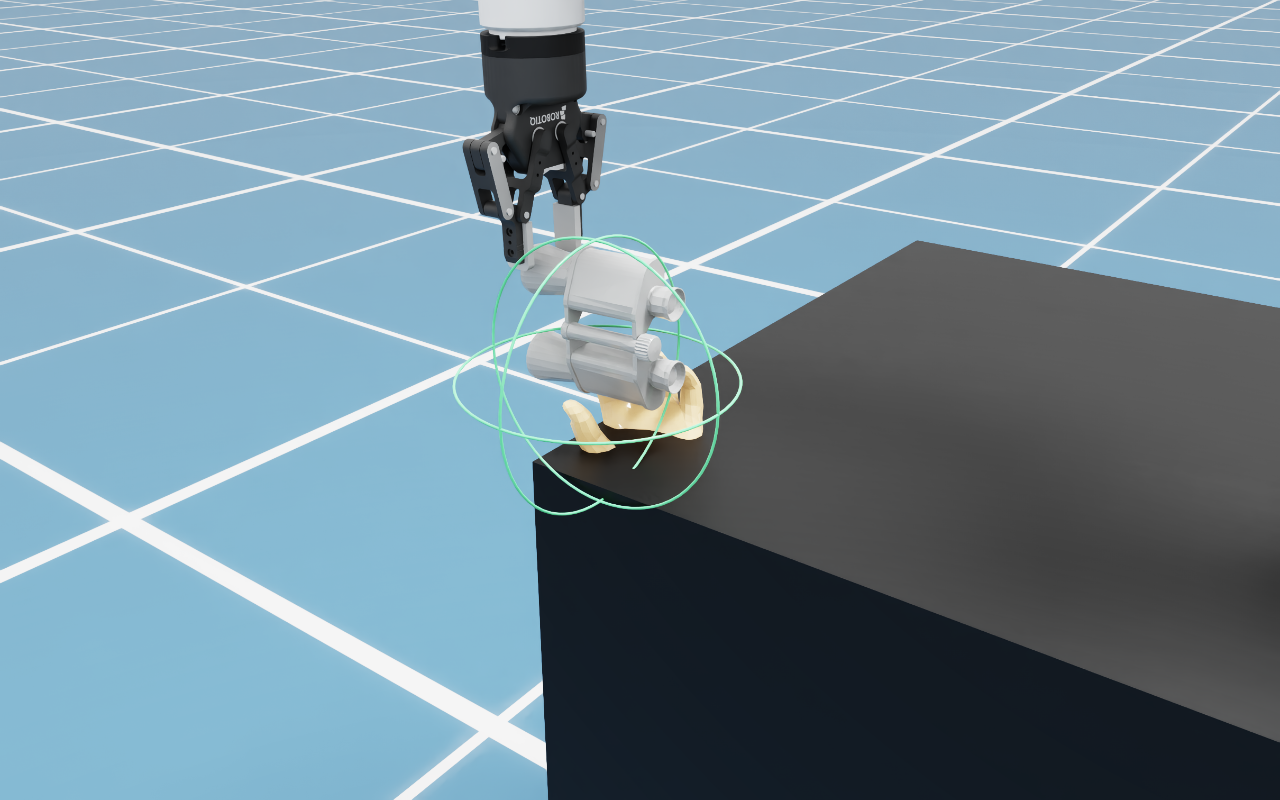
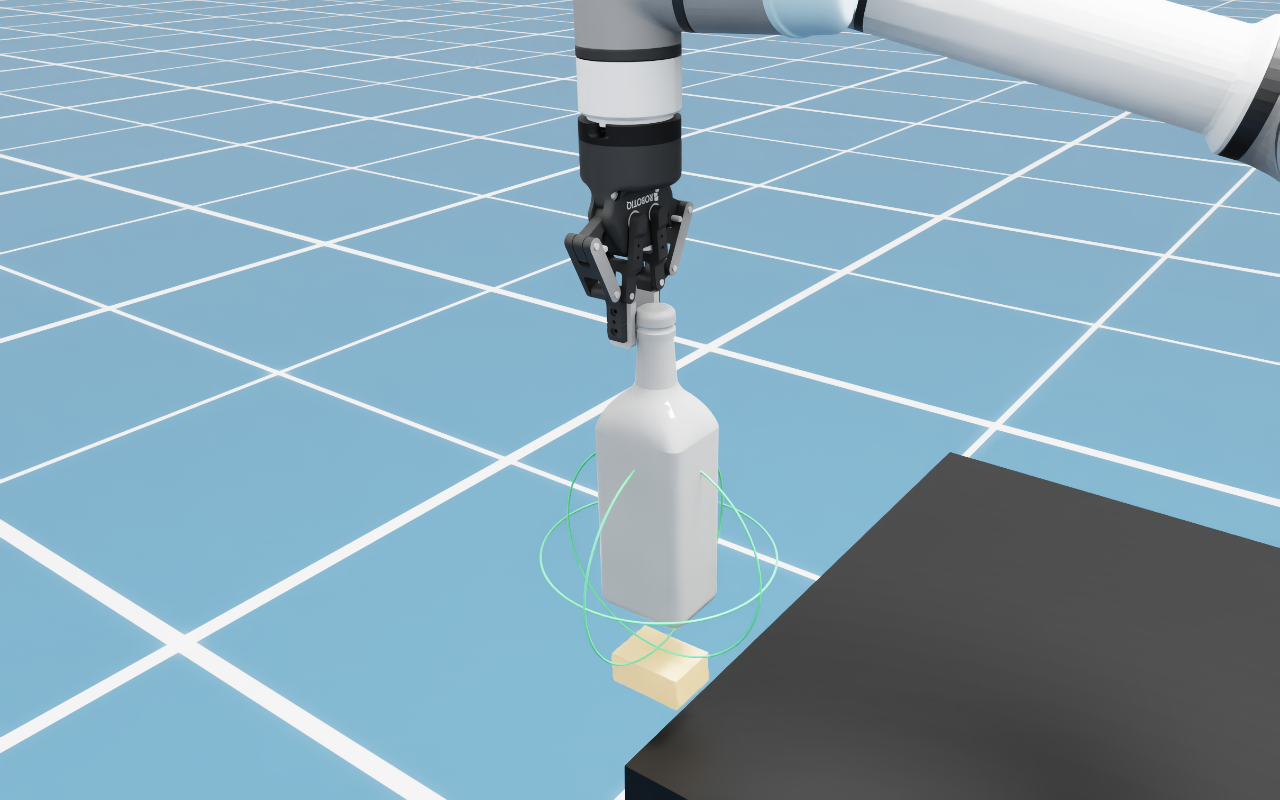
Fit and verify bilateral contacts on original Robotiq pads

diff --git a/src/r2handoversim/isaac_backend.py b/src/r2handoversim/isaac_backend.py
@@ -114,11 +114,31 @@ def replay(trials, output, headless=False, hold=False, render_every=1, screensho
                 from .usd_robot import UsdRobot
                 config = trial['asset_robot']
                 asset_robot = UsdRobot(stage, config['usd'], config['translation'])
-                opening = min(projected_width(trial['object_boxes'], transform(trial['T_object_gripper'])[:3,1]), .085)
-                asset_robot.update(trial['planned_joints'][-1], opening)
+                original_grasp = transform(trial['T_object_gripper'])
+                intentional_width_failure = trial.get('replay_reference', {}).get('assigned_outcome') == 'stability'
+                if not intentional_width_failure:
+                    from .grasp_fit import fit_grasp
+                    fitted, contact_fit = fit_grasp(trial['object_mesh_object'], original_grasp, trial['max_opening_m'])
+                    trial['T_object_gripper'] = fitted.tolist()
+                    opening, pads = asset_robot.calibrate_opening(trial['planned_joints'][-1], contact_fit['width_m'])
+                    # Verify both contacts against the measured USD inner pad faces.
+                    contact_fit['measured_pad_geometry'] = pads
+                    contact_fit['linkage_command_m'] = opening
+                    errors = asset_robot.contact_distances(contact_fit['contact_points_tool'])
+                    contact_fit['bilateral_distance_m'] = errors
+                    if max(errors) > .0002:
+                        raise ValueError(f"{trial['object_id']}: object contacts miss the original finger pad surfaces by {errors} m")
+                    trial['asset_contact_fit'] = contact_fit
+                else:
+                    opening = .085
+                    asset_robot.update(trial['planned_joints'][-1], opening)
+                    trial['asset_contact_fit'] = {'status':'intentional_width_failure',
+                        'scope':'No valid grasp; this reference failure is not corrected into a success'}
                 old_goal = tcp(trial['planned_joints'][-1])
                 tool_offset = inverse(old_goal) @ asset_robot.tool_pose()
-                shift = old_goal @ tool_offset @ inverse(old_goal)
+                old_object_pose = old_goal @ inverse(original_grasp)
+                new_object_pose = old_goal @ tool_offset @ inverse(trial['T_object_gripper'])
+                shift = new_object_pose @ inverse(old_object_pose)
                 trial['T_tcp_asset_tool'] = tool_offset.tolist()
                 trial['target_T_world_gripper'] = (transform(trial['target_T_world_gripper'])@tool_offset).tolist()
                 trial['hand_boxes_world'] = [moved(b, shift) for b in trial['hand_boxes_world']]
@@ -133,7 +153,7 @@ def replay(trials, output, headless=False, hold=False, render_every=1, screensho
             else:
                 UsdGeom.Imageable(stage.GetPrimAtPath('/World/Table')).MakeVisible()
             if camera == "handover":
-                target = np.asarray(trial["palm_position_world"])
+                target = .8*trial_tcp(trial, trial["planned_joints"][-1])[:3,3] + .2*np.asarray(trial["palm_position_world"])
                 set_camera_view(eye=target+np.array([.48, -.65, .38]), target=target)
             frame_directory = output / f"{trial['id']}_frames"
             if video:
@@ -266,6 +286,7 @@ def replay(trials, output, headless=False, hold=False, render_every=1, screensho
                 result['asset_robot'] = {**trial['asset_robot'], 'mesh_count':asset_robot.mesh_count,
                                         'collider_count':len(asset_robot.colliders), 'T_tcp_asset_tool':trial['T_tcp_asset_tool']}
                 result['object_asset'] = {k:trial['object_mesh_object'][k] for k in ('source_path','source_sha256')}
+                result['grasp_contact'] = trial['asset_contact_fit']
             result["hand_collision"] = hand_collision
             result["execution_wall_time_s"] = time.perf_counter() - started
             result["backend"] = "isaacsim-physx"

diff --git a/src/r2handoversim/grasp_fit.py b/src/r2handoversim/grasp_fit.py
@@ -1,0 +1,69 @@
+"""Fit a replay grasp to opposing mesh surfaces inside the actual pad window.
+
+This is geometric contact placement, not frictional grasp dynamics.
+"""
+import numpy as np
+from .geometry import transform
+
+
+def clipped_surface(vertices, faces, bounds):
+    """Vertices of triangle surfaces clipped to an X/Z rectangular prism."""
+    tri=vertices[faces]
+    active=np.ones(len(tri),dtype=bool)
+    for axis,lo,hi in bounds:
+        active &= (tri[:,:,axis].max(1)>=lo)&(tri[:,:,axis].min(1)<=hi)
+    tri=tri[active]
+    if not len(tri): return np.empty((0,3))
+    pts=tri.reshape(-1,3); candidates=[pts]
+    a=tri.reshape(-1,3);b=np.roll(tri,-1,axis=1).reshape(-1,3)
+    for axis,lo,hi in bounds:
+        for edge in (lo,hi):
+            delta=b[:,axis]-a[:,axis]
+            mask=np.abs(delta)>1e-12
+            u=(edge-a[mask,axis])/delta[mask]
+            valid=(u>=0)&(u<=1)
+            candidates.append(a[mask][valid]+u[valid,None]*(b-a)[mask][valid])
+    # A large triangle can cover a rectangle corner without an interior vertex.
+    v0=tri[:,0];v1=tri[:,1]-v0;v2=tri[:,2]-v0
+    det=v1[:,0]*v2[:,2]-v1[:,2]*v2[:,0]
+    mask=np.abs(det)>1e-12
+    for x in bounds[0][1:]:
+        for z in bounds[1][1:]:
+            dx=x-v0[mask,0];dz=z-v0[mask,2]
+            u=(dx*v2[mask,2]-dz*v2[mask,0])/det[mask]
+            v=(v1[mask,0]*dz-v1[mask,2]*dx)/det[mask]
+            valid=(u>=0)&(v>=0)&(u+v<=1)
+            candidates.append(v0[mask][valid]+u[valid,None]*v1[mask][valid]+v[valid,None]*v2[mask][valid])
+    pts=np.concatenate(candidates)
+    keep=np.ones(len(pts),dtype=bool)
+    for axis,lo,hi in bounds: keep &= (pts[:,axis]>=lo-1e-10)&(pts[:,axis]<=hi+1e-10)
+    return pts[keep]
+
+
+def fit_grasp(mesh, grasp, max_opening=.085):
+    original=transform(grasp);verts=np.asarray(mesh['vertices']);faces=np.asarray(mesh['faces'],dtype=int)
+    local=(verts-original[:3,3])@original[:3,:3]
+    # Stay near the supplied approach, preferring a shallow insertion. The pad
+    # window is inset 1 mm from the original Robotiq USD's flat inner faces.
+    xs=np.unique(np.r_[0.,np.linspace(local[:,0].min()+.008,local[:,0].max()-.008,11)])
+    options=[]
+    for x in xs:
+        for depth in (.018,.025,.035):
+            options.append((float(abs(x)+depth*.2),float(x),depth))
+    for _,x,depth in sorted(options):
+        pts=clipped_surface(local,faces,[(0,x-.010,x+.010),(2,depth-.022,depth+.010)])
+        if len(pts)<4: continue
+        low=pts[np.argmin(pts[:,1])];high=pts[np.argmax(pts[:,1])]
+        width=float(high[1]-low[1])
+        if not .001<=width<=max_opening-.0001: continue
+        # Require contacts within the flat pads, with a nontrivial insertion.
+        if max(low[2],high[2])<.002: continue
+        center=np.array([x,(low[1]+high[1])/2,depth])
+        corrected=original.copy();corrected[:3,3]+=original[:3,:3]@center
+        contacts=np.array([low,high])-center
+        return corrected, {'status':'bilateral_surface_fit','width_m':width,
+            'original_T_object_gripper':original.tolist(),'T_object_gripper':corrected.tolist(),
+            'translation_in_original_tool_m':center.tolist(),'contact_points_tool':contacts.tolist(),
+            'pad_window_tool_m':{'x':[-.010,.010],'z':[-.022,.010]},
+            'scope':'Opposing mesh surfaces inside flat finger pads; kinematic contact placement, no force/friction claim'}
+    raise ValueError('No opposing object surfaces fit within the Robotiq pad window and aperture')

diff --git a/src/r2handoversim/usd_robot.py b/src/r2handoversim/usd_robot.py
@@ -72,3 +72,61 @@ class UsdRobot:
         z=wrist[:3,2];z=z-y*np.dot(y,z);z/=np.linalg.norm(z)
         pose=np.eye(4);pose[:3,:3]=np.column_stack([np.cross(y,z),y,z]);pose[:3,3]=center+.015*z
         return pose
+
+    def pad_planes(self):
+        """Measured inner pad planes and bounds in the current logical tool frame."""
+        from pxr import Usd, UsdPhysics
+        tool_inverse = np.linalg.inv(self.tool_pose())
+        sides = []
+        for side, sign in [('left', 1), ('right', -1)]:
+            vertices = []
+            root = self.stage.GetPrimAtPath(f'/World/AssetRobot/robotiq_85_{side}_finger_tip_link')
+            for prim in Usd.PrimRange(root):
+                if prim.IsA(self.UsdGeom.Mesh) and prim.HasAPI(UsdPhysics.CollisionAPI):
+                    p = np.asarray(self.UsdGeom.Mesh(prim).GetPointsAttr().Get())
+                    t = tool_inverse @ self.world_matrix(prim.GetPath())
+                    vertices.append(p @ t[:3,:3].T + t[:3,3])
+            p = np.concatenate(vertices)
+            plane = p[:,1].min() if sign == 1 else p[:,1].max()
+            pad = p[np.abs(p[:,1]-plane) < .0001]
+            sides.append({'side':side, 'plane_y_m':float(plane),
+                          'min':pad.min(0).tolist(), 'max':pad.max(0).tolist()})
+        return {'gap_m':sides[0]['plane_y_m']-sides[1]['plane_y_m'], 'pads':sides}
+
+    def calibrate_opening(self, q, desired_gap):
+        """Invert the actual USD linkage instead of assuming gap is linear in angle."""
+        low, high = 0., .085
+        for _ in range(18):
+            command = (low+high)/2
+            self.update(q, command)
+            measured = self.pad_planes()
+            if measured['gap_m'] < desired_gap: low = command
+            else: high = command
+        command = (low+high)/2
+        self.update(q, command)
+        measured = self.pad_planes()
+        if abs(measured['gap_m']-desired_gap) > .0001:
+            raise ValueError('Requested contact gap is outside the original gripper linkage range')
+        return command, measured
+
+    def contact_distances(self, contacts):
+        """Closest surface distances to each original finger collider triangle mesh."""
+        from pxr import Usd, UsdPhysics
+        import trimesh
+        inverse_tool = np.linalg.inv(self.tool_pose())
+        distances=[]
+        for side, contact in zip(('right','left'), contacts):
+            triangles=[]
+            root=self.stage.GetPrimAtPath(f'/World/AssetRobot/robotiq_85_{side}_finger_tip_link')
+            for prim in Usd.PrimRange(root):
+                if not (prim.IsA(self.UsdGeom.Mesh) and prim.HasAPI(UsdPhysics.CollisionAPI)): continue
+                mesh=self.UsdGeom.Mesh(prim);p=np.asarray(mesh.GetPointsAttr().Get())
+                t=inverse_tool@self.world_matrix(prim.GetPath());p=p@t[:3,:3].T+t[:3,3]
+                counts=mesh.GetFaceVertexCountsAttr().Get();indices=mesh.GetFaceVertexIndicesAttr().Get();start=0
+                for count in counts:
+                    face=indices[start:start+count];start+=count
+                    triangles.extend(p[[face[0],face[i],face[i+1]]] for i in range(1,count-1))
+            triangles=np.asarray(triangles)
+            closest=trimesh.triangles.closest_point(triangles,np.tile(contact,(len(triangles),1)))
+            distances.append(float(np.linalg.norm(closest-contact,axis=1).min()))
+        return distances

diff --git a/src/r2handoversim/report.py b/src/r2handoversim/report.py
@@ -21,8 +21,11 @@ def write_report(results, output):
             v = r["metrics"][metric]
             text, cls = ("—", "na") if v is None else (("Pass", "pass") if v else ("Fail", "fail"))
             flags.append(f'<td class="{cls}">{text}</td>')
+        contact = r.get('grasp_contact', {})
+        distances = contact.get('bilateral_distance_m')
+        contact_text = (' / '.join(f'{d*1000:.3f}' for d in distances) + ' mm') if distances else contact.get('status', '—')
         rows.append(f'<tr><td>{html.escape(name)}</td><td>{html.escape(r["split"])}</td>'
-                    + ''.join(flags) + f'<td>{html.escape(r["first_failure"] or "success")}</td><td>{" · ".join(links)}</td></tr>')
+                    + ''.join(flags) + f'<td>{html.escape(r["first_failure"] or "success")}</td><td>{html.escape(contact_text)}</td><td>{" · ".join(links)}</td></tr>')
     count = sum(r["success"] for r in results)
     document = '''<!doctype html><html lang="en"><meta charset="utf-8"><meta name="viewport" content="width=device-width">
 <title>R2HandoverSim results</title><style>
@@ -32,7 +35,7 @@ body{background:#111b2d;color:#e9f0ff;font:15px system-ui;margin:40px auto;max-w
     if any(r.get("replay_reference") for r in results):
         document += '<p>Reconstructed paper replay. Metrics below are evaluated from these scenes; assigned reference outcomes remain in results.json.</p>'
     document += '<p>Safety source: ' + html.escape('; '.join(sorted({r.get("safe_source", "unspecified") for r in results}))) + '</p>'
-    document += '<div class="scroll"><table><tr><th>Trial</th><th>Split</th>' + ''.join(f'<th>{m.title()}</th>' for m in metrics) + '<th>First failure</th><th>Artifacts</th></tr>' + ''.join(rows) + '</table></div>'
+    document += '<div class="scroll"><table><tr><th>Trial</th><th>Split</th>' + ''.join(f'<th>{m.title()}</th>' for m in metrics) + '<th>First failure</th><th>Pad surface distances</th><th>Artifacts</th></tr>' + ''.join(rows) + '</table></div>'
     document += '<p>Release demo results, not paper measurements. Plan checks a provided joint path; Safe uses sampled overlap. S0 omits Affordance. First failure: Stability → Plan → Reach → Affordance → Safe.</p><p><a href="results.json">JSON</a> · <a href="results.csv">CSV</a> · <a href="summary.json">Summary</a></p></html>'
     document = document.replace('</html>', '<p>Table I aggregation (per object, then per split): <a href="paper_table.csv">CSV</a> · <a href="paper_table.json">JSON and conventions</a></p></html>')
     (output/'report.html').write_text(document)

diff --git a/tests/test_grasp_fit.py b/tests/test_grasp_fit.py
@@ -1,0 +1,29 @@
+import unittest
+import numpy as np
+from r2handoversim.grasp_fit import fit_grasp
+
+
+def cuboid(width, x=0):
+    vertices=[[x+a*0.01,b*width/2,c*.06] for a in (-1,1) for b in (-1,1) for c in (0,1)]
+    faces=[[0,1,3],[0,3,2],[4,6,7],[4,7,5],[0,4,5],[0,5,1],[2,3,7],[2,7,6],[0,2,6],[0,6,4],[1,5,7],[1,7,3]]
+    return {'vertices':vertices,'faces':faces}
+
+
+class GraspFitTests(unittest.TestCase):
+    def test_surface_tcp_is_inserted_and_local_width_matches_contacts(self):
+        fitted, audit=fit_grasp(cuboid(.025),np.eye(4))
+        self.assertGreater(fitted[2,3],.01)
+        self.assertAlmostEqual(audit['width_m'],.025)
+        a,b=np.asarray(audit['contact_points_tool'])
+        self.assertAlmostEqual(a[1],-.0125)
+        self.assertAlmostEqual(b[1],.0125)
+        self.assertTrue(np.all(np.abs([a[0],b[0]])<=.010001))
+
+    def test_empty_approach_is_shifted_to_actual_mesh(self):
+        fitted,audit=fit_grasp(cuboid(.02,x=.04),np.eye(4))
+        self.assertGreater(fitted[0,3],.02)
+        self.assertAlmostEqual(audit['width_m'],.02)
+
+    def test_too_wide_object_is_not_attached_as_a_valid_grasp(self):
+        with self.assertRaisesRegex(ValueError,'No opposing'):
+            fit_grasp(cuboid(.12),np.eye(4))

diff --git a/src/r2handoversim/evaluation.py b/src/r2handoversim/evaluation.py
@@ -71,9 +71,16 @@ def validate_trial(trial):
         raise ValueError("Reach offset must be finite")
 
 
+def grasp_width(trial):
+    fit = trial.get('asset_contact_fit', {})
+    if fit.get('status') == 'bilateral_surface_fit':
+        return float(fit['width_m'])
+    return projected_width(trial['object_boxes'], transform(trial['T_object_gripper'])[:3, 1])
+
+
 def robot_geometry(trial, q, width=None):
     if width is None:
-        width = projected_width(trial["object_boxes"], transform(trial["T_object_gripper"])[:3, 1])
+        width = grasp_width(trial)
     return arm_boxes(q) + [moved(b, trial_tcp(trial, q)) for b in gripper_boxes(min(width, trial["max_opening_m"]))]
 
 
@@ -84,7 +91,7 @@ def hand_contact(trial, q, width):
 def evaluate(trial, physics_contacts=None):
     validate_trial(trial)
     grasp = transform(trial["T_object_gripper"])
-    width = projected_width(trial["object_boxes"], grasp[:3, 1])
+    width = grasp_width(trial)
     stable = width <= trial["max_opening_m"] + 1e-9
     planned, executed = trial["planned_joints"], trial["executed_joints"]
     target = transform(trial["target_T_world_gripper"])

diff --git a/src/r2handoversim/__init__.py b/src/r2handoversim/__init__.py
@@ -1,1 +1,1 @@
-__version__ = "0.7.0"
+__version__ = "0.7.1"

diff --git a/docs/validation.md b/docs/validation.md
@@ -134,3 +134,15 @@ Validated locally with Isaac Sim 5.0.0 on RTX 4070:
 - Six authored reference-outcome examples (success, Plan, Reach, Safe, Stability, Affordance) were retargeted for the original tool and table clearance. Independent simulator predicates matched all six; the Safe example had six detected contact frames.
 - 8,000 bundled reconstructed records match 108 Table I cells. Wheel resource loading and deterministic regeneration checked. These aggregate checks concern reference records, separately from the six simulator examples.
 - 35 CPU tests pass. Optional local assets are not part of CI or redistributed in the wheel.
+
+## Bilateral contact correction (0.7.1)
+
+The first asset replay exposed grasps that followed a tool transform while the
+pads did not reach the object. The asset adapter now fits a shallow insertion
+and a local opposing surface pair, calibrates the nonlinear Robotiq opening,
+and checks each contact against the original finger collider triangles.
+All 16 local object meshes passed the 0.2 mm bilateral-distance threshold.
+The report retains the original grasp and exposes both measured distances.
+The handover camera now includes the grasp location, including for long objects.
+38 CPU tests pass, including detached approaches and objects exceeding aperture.
+This remains geometric contact replay, not a frictional holding-force test.

diff --git a/README.md b/README.md
@@ -98,7 +98,13 @@ release's nominal UR5e base. Object names must match the OBJ filenames;
 same object frame as the configured point cloud. Source paths and hashes are
 recorded in results. Assets remain local and are not redistributed.
 
-The original gripper tool frame is calibrated from its finger pads. Playback
+The original gripper tool frame is calibrated from its finger pads. Local-asset
+replay refits the supplied approach to opposing object-mesh surfaces inside the
+flat pads, and inverts the actual Robotiq linkage to set the local contact gap.
+The original grasp is retained in `grasp_contact`; each side must be within
+0.2 mm of its USD collider surface, otherwise the replay fails explicitly.
+Reports show both surface distances. This geometric contact check does not
+measure frictional holding force. Authored Stability failures remain ungrasped. Playback
 moves the USD links kinematically and attaches the object rigidly. PhysX Safe
 checks use the USD robot colliders; Plan/Reach/Affordance retain the documented
 geometric predicates. Existing proxy-tool planning metadata is not presented

diff --git a/CHANGELOG.md b/CHANGELOG.md
@@ -1,5 +1,10 @@
 # Changelog
 
+## 0.7.1
+
+- Correct detached local-asset grasps by fitting opposing mesh contact surfaces and insertion depth, calibrating actual Robotiq pad spacing, and verifying both contacts against USD collider triangles.
+- Report contact distances and preserve the original grasp before replay fitting. Reject missing contacts rather than attaching an ungrasped object.
+
 ## 0.7.0
 
 - Add configurable original UR5e/Robotiq USD and local OBJ meshes, calibrated tool frames, actual robot collider queries, and USD/MP4 replay exports.
